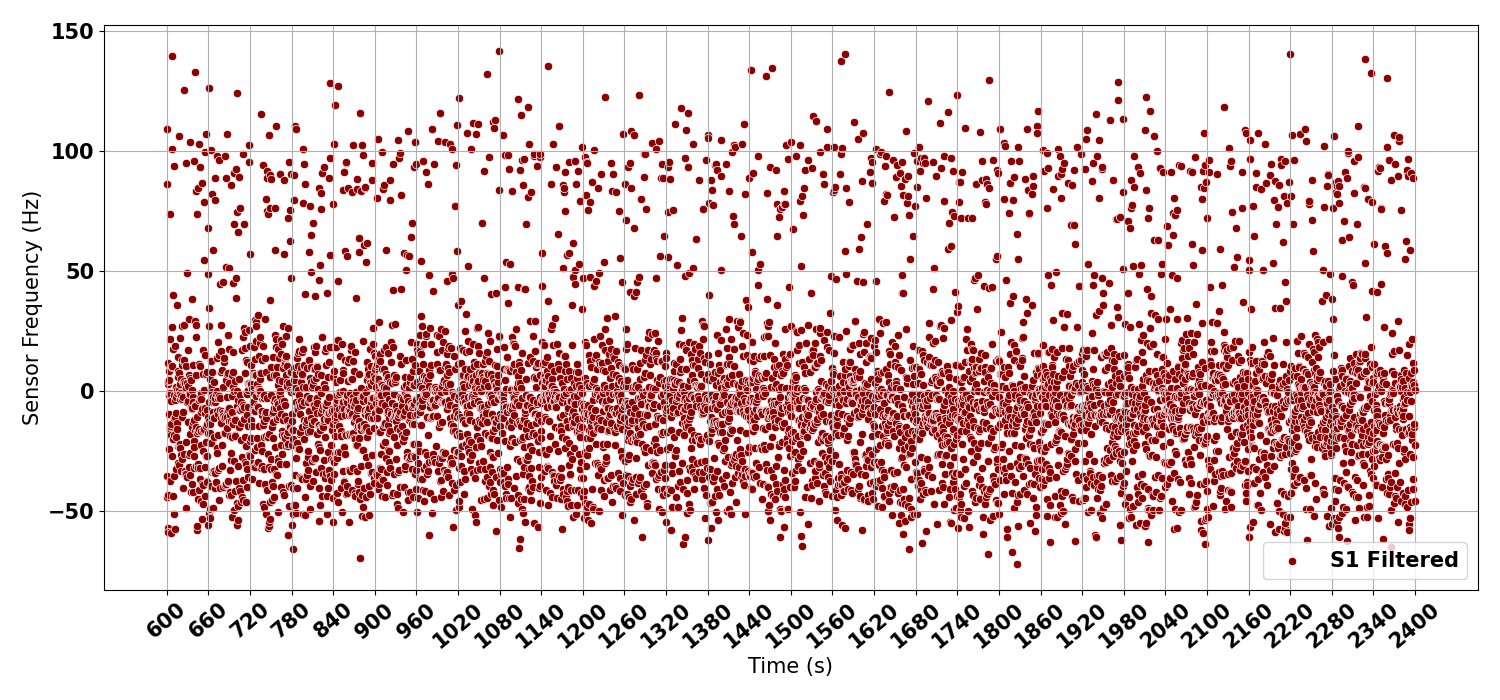
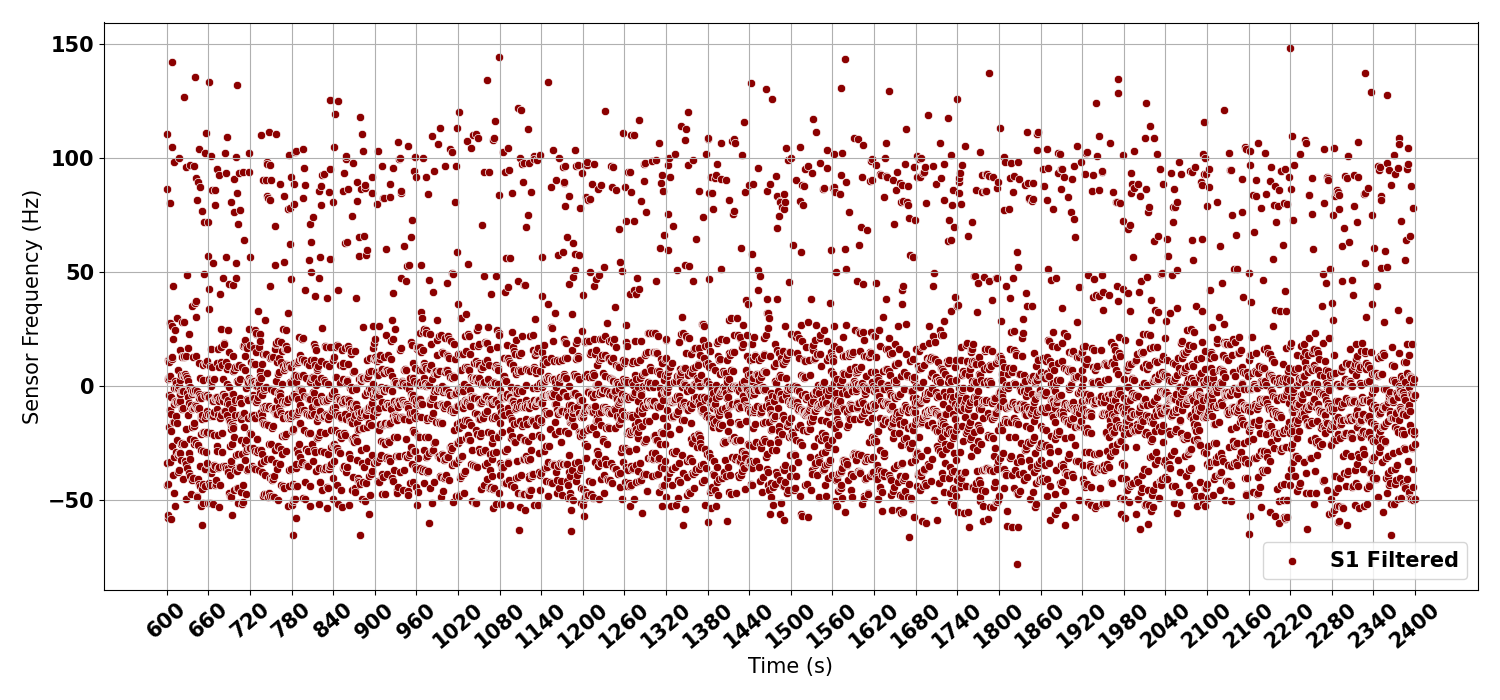
added noise analysis tests and moving average

diff --git a/FGD_03F_noise_analysis_functions.py b/FGD_03F_noise_analysis_functions.py
@@ -119,10 +119,10 @@ def Noise_02_HIGH_Dec_15_analysis(file_1,file_2,folder):
     i_start_1, i_start_2 = dataset_1.index[dataset_1[t_info_s]>=500].tolist()[0] , dataset_2.index[dataset_2[t_info_s]>=500].tolist()[0]
     i_end_1, i_end_2 = dataset_1.index[dataset_1[t_info_s]>=1100].tolist()[0] , dataset_2.index[dataset_2[t_info_s]>=1100].tolist()[0]
 
-    # Histogram normality test and 6*sigma noise range limits
+    # Histogram normality test and 4*sigma noise range limits
     x_1_l, x_2_l = dataset_1.loc[i_start_1:i_end_1,F_s_info] , dataset_2.loc[i_start_2:i_end_2,F_s_info]
-    data_points = len(x_1_l.index)
-    print("data points: %d"%(data_points))
+    data_points_1, data_points_2 = len(x_1_l.index), len(x_2_l.index)
+    print("data points (S1 | S2): %d | %d"%(data_points_1,data_points_2))
     mu_1,std_1 = hist_dist_plot(x_1_l,F_s_info,file_name_1[0:-7]+'_histogram_S1','Sensor 1', colors=['indianred','royalblue'],savefolder=savefolder, bins=25,dist='normal')[3:5]
     mu_2,std_2 = hist_dist_plot(x_2_l,F_s_info,file_name_1[0:-7]+'_histogram_S2','Sensor 2', colors=['royalblue','indianred'],savefolder=savefolder, bins = 25,dist='normal')[3:5]
     print("Noise peak to peak range limits (+- 2*sigma = 95.45%%) S1 (mu | 4s ): %f | %f "%(mu_1,4*std_1))
@@ -163,7 +163,7 @@ def Noise_02_HIGH_Dec_15_analysis(file_1,file_2,folder):
 
     # moving average filter as done by CERN, apply analysis to new data set
     x_1_new, x_2_new = dataset_1.loc[i_start_1:i_end_1,t_info_s], dataset_2.loc[i_start_2:i_end_2,t_info_s]
-    window = 40 # 40 for about 10s moving average window
+    window = 80 # 40 for about 10s moving average window
     t_window = 2*4096/31.25 # ms
     print('measurement window is (2*4096 pulses / 31.25 kHz clock) (ms): %f'%(t_window))
     print('moving average window (ms): %f'%(t_window*window))
@@ -180,7 +180,6 @@ def Noise_02_HIGH_Dec_15_analysis(file_1,file_2,folder):
     mu_2,std_2 = hist_dist_plot(y_2_noise,F_s_info,file_name_1[0:-7]+'_histogram_S2_noise','Sensor 2', colors=['royalblue','indianred'],savefolder=savefolder, bins = 25,dist='normal')[3:5]
     print("Noise peak to peak range limits (+- 2*sigma = 95.45%%) S1 (mu | 4s ): %f | %f "%(mu_1,4*std_1))
     print("Noise peak to peak range limits (+- 2*sigma = 95.45%%) S2 (mu | 4s ): %f | %f "%(mu_2,4*std_2))
-
 
 # ------------------------------------------------------------------------------------------------------------------------------------------------------------------------------------
 # ------------------------------------------------------------------------------------------------------------------------------------------------------------------------------------
@@ -512,7 +511,7 @@ def LOW_Jan_15_analysis(file_1,file_2,folder):
 
     # moving average filter as done by CERN, apply analysis to new data set
     x_1_new, x_2_new = dataset_1.loc[i_start_1:i_end_1,t_info_s], dataset_2.loc[i_start_2:i_end_2,t_info_s]
-    window = 40 # 40 for about 10s moving average window
+    window = 80 # 40 for about 10s moving average window
     t_window = 2*4096/31.25 # ms
     print('measurement window is (2*4096 pulses / 31.25 kHz clock) (ms): %f'%(t_window))
     print('moving average window (ms): %f'%(t_window*window))
@@ -602,7 +601,6 @@ def HIGH_Feb_18_analysis(file_1,file_2,folder):
 # ------------------------------------------------------------------------------------------------------------------------------------------------------------------------------------
 # ------------------------------------------------------------------------------------------------------------------------------------------------------------------------------------
 
-
 def HIGH_w32768_Feb_22_analysis(file_1,file_2,folder):
     print("******************************************** ANALYSIS HIGH_w32768_Feb_22 ********************************************")
     print('interesting: higher window pulses (32768)')
@@ -632,7 +630,7 @@ def HIGH_w32768_Feb_22_analysis(file_1,file_2,folder):
     y_1_s, y_2_s = [dataset_1[F_s_info],dataset_2[F_s_info]]
     y = [y_1_s, y_2_s]
     names = ['F sensor 1','F sensor 2']
-    fig,ax = plot_2subs_datasets(x_1,x_2,y_1_s,y_2_s,file_name_1[0:-7]+'_Fs',names,steps,savefolder=savefolder,colors=['red','blue'],markers=['.','.'])
+    fig,ax = plot_2subs_datasets(x_1,x_2,y_1_s,y_2_s,file_name_1[0:-7]+'_Fs',names,steps,savefolder=savefolder,colors=['red','blue'],markers=['.','.'],ylim_2=[131500,132200])
 
 # ------------------------------------------------------------------------------------------------------------------------------------------------------------------------------------
 # ------------------------------------------------------------------------------------------------------------------------------------------------------------------------------------
@@ -682,23 +680,84 @@ def HIGH_w32768_Feb_23_analysis(file_1,file_2,folder):
     t_info_s = 'Time (s)'
     dataset_1.rename(columns={t_info : t_info_s}, inplace=True)
     dataset_2.rename(columns={t_info : t_info_s}, inplace=True)
-    
-    # plot temperature to see of compensation might be needed
-    # plot reference frequency and sensor frequency to see variation over time
     steps = 30
-    x_1,x_2,y_1_T,y_2_T = dataset_1[t_info_s],dataset_2[t_info_s],dataset_1[T_info],dataset_2[T_info]
-    x = [x_1,x_2]
-    y = [y_1_T,y_2_T]
-    xmin, xmax = limits(x)
-    ymin, ymax = limits(y)
-    names = ['T sensor 1','T sensor 2']
-    fig,ax = plot_xy(x,y,file_name_1[0:-7]+'_Temperature',names,steps,savefolder=savefolder,xlim=[0,xmax],ylim=[77,87],colors=['darkred','darkblue'])
-    y_1_r,y_2_r = dataset_1[F_r_info],dataset_2[F_r_info]
-    y = [y_1_r,y_2_r]
-    ymin, ymax = limits(y) # limits are off due to error
-    names = ['F reference 1','F reference 2']
-    fig,ax = plot_2subs_datasets(x_1,x_2,y_1_r,y_2_r,file_name_1[0:-7]+'_Fr',names,steps,savefolder=savefolder,colors=['darkred','darkblue'],markers=['.','.'])
-    y_1_s, y_2_s = [dataset_1[F_s_info],dataset_2[F_s_info]]
-    y = [y_1_s, y_2_s]
-    names = ['F sensor 1','F sensor 2']
-    fig,ax = plot_2subs_datasets(x_1,x_2,y_1_s,y_2_s,file_name_1[0:-7]+'_Fs',names,steps,savefolder=savefolder,colors=['red','blue'],markers=['.','.'])
+
+    # # plot temperature to see of compensation might be needed
+    # # plot reference frequency and sensor frequency to see variation over time
+    # x_1,x_2,y_1_T,y_2_T = dataset_1[t_info_s],dataset_2[t_info_s],dataset_1[T_info],dataset_2[T_info]
+    # x = [x_1,x_2]
+    # y = [y_1_T,y_2_T]
+    # xmin, xmax = limits(x)
+    # ymin, ymax = limits(y)
+    # names = ['T sensor 1','T sensor 2']
+    # fig,ax = plot_xy(x,y,file_name_1[0:-7]+'_Temperature',names,steps,savefolder=savefolder,xlim=[0,xmax],ylim=[77,87],colors=['darkred','darkblue'])
+    # y_1_r,y_2_r = dataset_1[F_r_info],dataset_2[F_r_info]
+    # y = [y_1_r,y_2_r]
+    # ymin, ymax = limits(y) # limits are off due to error
+    # names = ['F reference 1','F reference 2']
+    # fig,ax = plot_2subs_datasets(x_1,x_2,y_1_r,y_2_r,file_name_1[0:-7]+'_Fr',names,steps,savefolder=savefolder,colors=['darkred','darkblue'],markers=['.','.'])
+    # y_1_s, y_2_s = [dataset_1[F_s_info],dataset_2[F_s_info]]
+    # y = [y_1_s, y_2_s]
+    # names = ['F sensor 1','F sensor 2']
+    # fig,ax = plot_2subs_datasets(x_1,x_2,y_1_s,y_2_s,file_name_1[0:-7]+'_Fs',names,steps,savefolder=savefolder,colors=['red','blue'],markers=['.','.'],ylim_2=[130800,131100])
+
+    # Histogram and noise range limits (620 - 1220)
+    i_start_1, i_start_2 = dataset_1.index[dataset_1[t_info_s]>=620].tolist()[0] , dataset_2.index[dataset_2[t_info_s]>=620].tolist()[0]
+    i_end_1, i_end_2 = dataset_1.index[dataset_1[t_info_s]>=1220].tolist()[0] , dataset_2.index[dataset_2[t_info_s]>=1220].tolist()[0]
+    print("PART OF RANGE (600-2400)")
+    x_1_l, x_2_l = x_1_l, x_2_l = dataset_1.loc[i_start_1:i_end_1,F_s_info] , dataset_2.loc[i_start_2:i_end_2,F_s_info]
+    print("number of data points (S1 | S2): %d | %d"%(len(x_1_l),len(x_2_l)))
+    mu_1,std_1 = hist_dist_plot(x_1_l,F_s_info,file_name_1[0:-7]+'_histogram_S1','Sensor 1', colors=['indianred','royalblue'],savefolder=savefolder, bins=18,dist='normal')[3:5]
+    mu_2,std_2 = hist_dist_plot(x_2_l,F_s_info,file_name_1[0:-7]+'_histogram_S2','Sensor 2', colors=['royalblue','indianred'],savefolder=savefolder, bins = 18,dist='normal')[3:5]
+    print("Noise peak to peak range limits (+- 2*sigma = 95.45%%) S1 (mu | 4s ): %f | %f "%(mu_1,4*std_1))
+    print("Noise peak to peak range limits (+- 2*sigma = 95.45%%) S2 (mu | 4s ): %f | %f "%(mu_2,4*std_2))
+
+    # moving average filter as done by CERN, apply analysis to new data set (data BEFORE external arduino was unplugged)
+    print("moving average data")
+    x_1_new, x_2_new = dataset_1.loc[i_start_1:i_end_1,t_info_s], dataset_2.loc[i_start_2:i_end_2,t_info_s]
+    window = 10 # 40 for about 10s moving average window
+    t_window = 2*32768/31.25 # ms
+    print('measurement window is (2*32768 pulses / 31.25 kHz clock) (ms): %f'%(t_window))
+    print('moving average window (ms): %f'%(t_window*window))
+    y_1_new, y_1_filter, y_1_noise = data_moving_average(dataset_1.loc[:,F_s_info],i_start_1,i_end_1,window)
+    y_2_new, y_2_filter, y_2_noise = data_moving_average(dataset_2[F_s_info],i_start_2,i_end_2,window)
+    fig,ax = plot_xy([x_1_new,x_1_new],[y_1_new,y_1_filter],file_name_1[0:-7]+'_Filtering_S1',['S1', 'S1 Filtered'],steps,savefolder=savefolder,colors=['darkred','darkblue'])
+    fig,ax = plot_xy([x_1_new,],[y_1_noise],file_name_1[0:-7]+'_Filtered_S1',['S1 Filtered'],steps,savefolder=savefolder,colors=['darkred',])
+    fig,ax = plot_xy([x_2_new,x_2_new],[y_2_new,y_2_filter],file_name_1[0:-7]+'_Filtering_S2',['S2', 'S2 Filtered'],steps,savefolder=savefolder,colors=['darkblue','darkred'])
+    fig,ax = plot_xy([x_2_new,],[y_2_noise],file_name_1[0:-7]+'_Filtered_S2',['S2 Filtered'],steps,savefolder=savefolder,colors=['darkblue'])
+    data_points_1, data_points_2 = len(y_1_noise.index),len(y_2_noise.index)
+    print("data points (S1 | S2): %d | %d"%(data_points_1,data_points_2))
+    mu_1,std_1 = hist_dist_plot(y_1_noise,F_s_info,file_name_1[0:-7]+'_histogram_S1_noise','Sensor 1', colors=['indianred','royalblue'],savefolder=savefolder, bins=18,dist='normal')[3:5]
+    mu_2,std_2 = hist_dist_plot(y_2_noise,F_s_info,file_name_1[0:-7]+'_histogram_S2_noise','Sensor 2', colors=['royalblue','indianred'],savefolder=savefolder, bins = 18,dist='normal')[3:5]
+    print("Noise peak to peak range limits (+- 2*sigma = 95.45%%) S1 (mu | 4s ): %f | %f "%(mu_1,4*std_1))
+    print("Noise peak to peak range limits (+- 2*sigma = 95.45%%) S2 (mu | 4s ): %f | %f "%(mu_2,4*std_2))
+
+    # EXTERNAL ARDUINO POWER UNPLUGGED, DO TESTS AGAIN TO SEE DIFFERENCE
+    print("\n************** POWER UNPLUGGED DATA **************")
+    # Histogram and noise range limits (2400 - 3000)
+    i_start_1, i_start_2 = dataset_1.index[dataset_1[t_info_s]>=2400].tolist()[0] , dataset_2.index[dataset_2[t_info_s]>=2400].tolist()[0]
+    i_end_1, i_end_2 = dataset_1.index[dataset_1[t_info_s]>=3000].tolist()[0] , dataset_2.index[dataset_2[t_info_s]>=3000].tolist()[0]
+    print("PART OF RANGE (2400 - 3000)")
+    x_1_l, x_2_l = x_1_l, x_2_l = dataset_1.loc[i_start_1:i_end_1,F_s_info] , dataset_2.loc[i_start_2:i_end_2,F_s_info]
+    print("number of data points (S1 | S2): %d | %d"%(len(x_1_l),len(x_2_l)))
+    mu_1,std_1 = hist_dist_plot(x_1_l,F_s_info,file_name_1[0:-7]+'_histogram_S1_power','Sensor 1', colors=['indianred','royalblue'],savefolder=savefolder, bins=18,dist='normal')[3:5]
+    mu_2,std_2 = hist_dist_plot(x_2_l,F_s_info,file_name_1[0:-7]+'_histogram_S2_power','Sensor 2', colors=['royalblue','indianred'],savefolder=savefolder, bins = 18,dist='normal')[3:5]
+    print("Noise peak to peak range limits (+- 2*sigma = 95.45%%) S1 (mu | 4s ): %f | %f "%(mu_1,4*std_1))
+    print("Noise peak to peak range limits (+- 2*sigma = 95.45%%) S2 (mu | 4s ): %f | %f "%(mu_2,4*std_2))   
+
+    # moving average filter as done by CERN, apply analysis to new data set (data AFTER external arduino was unplugged)
+    print("moving average data")
+    x_1_new, x_2_new = dataset_1.loc[i_start_1:i_end_1,t_info_s], dataset_2.loc[i_start_2:i_end_2,t_info_s]
+    window = 10 # 40 for about 10s moving average window
+    y_1_new, y_1_filter, y_1_noise = data_moving_average(dataset_1.loc[:,F_s_info],i_start_1,i_end_1,window)
+    y_2_new, y_2_filter, y_2_noise = data_moving_average(dataset_2[F_s_info],i_start_2,i_end_2,window)
+    fig,ax = plot_xy([x_1_new,x_1_new],[y_1_new,y_1_filter],file_name_1[0:-7]+'_Filtering_S1_power',['S1', 'S1 Filtered'],steps,savefolder=savefolder,colors=['darkred','darkblue'])
+    fig,ax = plot_xy([x_1_new,],[y_1_noise],file_name_1[0:-7]+'_Filtered_S1_power',['S1 Filtered'],steps,savefolder=savefolder,colors=['darkred',])
+    fig,ax = plot_xy([x_2_new,x_2_new],[y_2_new,y_2_filter],file_name_1[0:-7]+'_Filtering_S2_power',['S2', 'S2 Filtered'],steps,savefolder=savefolder,colors=['darkblue','darkred'])
+    fig,ax = plot_xy([x_2_new,],[y_2_noise],file_name_1[0:-7]+'_Filtered_S2_power',['S2 Filtered'],steps,savefolder=savefolder,colors=['darkblue'])
+    data_points_1, data_points_2 = len(y_1_noise.index),len(y_2_noise.index)
+    print("data points (S1 | S2): %d | %d"%(data_points_1,data_points_2))
+    mu_1,std_1 = hist_dist_plot(y_1_noise,F_s_info,file_name_1[0:-7]+'_histogram_S1_noise_power','Sensor 1', colors=['indianred','royalblue'],savefolder=savefolder, bins=18,dist='normal')[3:5]
+    mu_2,std_2 = hist_dist_plot(y_2_noise,F_s_info,file_name_1[0:-7]+'_histogram_S2_noise_power','Sensor 2', colors=['royalblue','indianred'],savefolder=savefolder, bins = 18,dist='normal')[3:5]
+    print("Noise peak to peak range limits (+- 2*sigma = 95.45%%) S1 (mu | 4s ): %f | %f "%(mu_1,4*std_1))
+    print("Noise peak to peak range limits (+- 2*sigma = 95.45%%) S2 (mu | 4s ): %f | %f "%(mu_2,4*std_2))

diff --git a/FGD_03F_functions.py b/FGD_03F_functions.py
@@ -342,6 +342,17 @@ def plot_2subs_datasets(x_1,x_2,y_1,y_2,filename,names,steps,xlim=[-1,-1],ylim_1
     return fig,axs     
 
 def sens_linreg(x: str,y: str,index_ranges: list,datasets: object):
+    """determine the sensitivity of the given pandas datasets within the ranges given by the indexes using the columns x and y via linear regression methods.
+
+    Args:
+        x (str): x axis data column name
+        y (str): y axis data column name
+        index_ranges (list): limits to determine over which regions in the dataset linear regression should be used
+        datasets (object): pandas dataframe
+
+    Returns:
+        _type_: the intercepts, coefficients, p-values and R-squared values of the linear regression lines
+    """    
     x_matrix = np.zeros((len(datasets),len(index_ranges)),dtype=object)
     y_matrix = np.zeros((len(datasets),len(index_ranges)),dtype=object)
     models = np.zeros((len(datasets),len(index_ranges)),dtype=object)
@@ -365,6 +376,21 @@ def sens_linreg(x: str,y: str,index_ranges: list,datasets: object):
     return intercepts,coeffs,pvalues,rsquared
 
 def hist_dist_plot(data,columnname,filename,name,colors=['indianred','royalblue'],savefolder=os.getcwd()+"\\Figures",bins = 20,dist = 'none'):
+    """plot a histogram and fit a distribution over it
+
+    Args:
+        data (pandas series): data to use
+        columnname (string): title of the data series used for the histogram
+        filename (string): filename to give names to the plot and save files
+        name (string): label to give the data in the histogram
+        colors (list, optional): Colours of the data in the plots. Defaults to ['indianred','royalblue'].
+        savefolder (string, optional): Folder where to save files. Defaults to os.getcwd()+"\Figures".
+        bins (int, optional): Number of bins to use in the histogram. Defaults to 20.
+        dist (str, optional): Type of distribution to fit over histogram, options are none, normal and KDE. Defaults to 'none'.
+
+    Returns:
+        _type_: _description_
+    """    
     fig, ax = plt.subplots(figsize=(15,7))
     plt.hist(data,bins=bins,density=True,color=colors[0],label=name, alpha  = 0.6)
     xmin, xmax = limits([data])
@@ -395,6 +421,17 @@ def hist_dist_plot(data,columnname,filename,name,colors=['indianred','royalblue'
     return [fig,ax,dist,param_1,param_2]
 
 def kde_limits(data,steps,kde,confidence = 0.9545):
+    """given data and a KDE fit, determine endpoints of the interval determined by confidence
+
+    Args:
+        data (pandas series): data to use
+        steps (int): number of data points to use to go over the KDE
+        kde (Scipy model): Kernel Density Estimate Scipy model
+        confidence (float, optional): Percentage of surface area under KDE to include. Defaults to 0.9545.
+
+    Returns:
+        list: endpoints of the calculated area
+    """    
     kde_min, kde_max = (1-confidence)/2, confidence+(1-confidence)/2
     ecdf = sm.distributions.ECDF(data)
     xmin, xmax = limits([data])
@@ -418,6 +455,17 @@ def kde_limits(data,steps,kde,confidence = 0.9545):
     return resolution
 
 def data_moving_average(data,start,end,window):
+    """filter data using a moving average
+
+    Args:
+        data (pandas series): data to filter
+        start (index): where to start in the dataset
+        end (index): where to stop in the dataset
+        window (int): size of data point window to use for moving average
+
+    Returns:
+        pandas series: data series with original data, filtered data and leftover noise data
+    """    
     y = data.loc[start:end]
     y_filter = moving_average(data.loc[start-window:end+window],window)[window:-window]
     y_noise = y.copy(deep=True)    

diff --git a/FGD_03F_analysis.py b/FGD_03F_analysis.py
@@ -4,13 +4,7 @@ this allows for selection of the most important test results
 """
 
 # TO ADD
-# - compare dose rates with HollandPTC data!
-# - add different temperature compensations
-# - make sure reading either stops at a recharge or takes reacharging into account in another way
-# - the test facility will provide data concerning radiation, so here code can be added to integrate the received dose / flux into the dataframes
-# - compare frequency at the end of one file to the start of the next to see degradation over time (choose one with a lot of time in between)
-# - eliminate whips in data.... (set threshold for change per sensitivity?), it influences range determination for linear range...
-#   (this is only slight error, ignore?)
+# - compare dose rates with HollandPTC data! Verify HollandPTC dose rates....
 
 from FGD_03F_functions import *
 from FGD_03F_file_analysis_functions import *
@@ -48,12 +42,12 @@ elif (flag_Noise):
     flag_Noise_04_HIGH_Dec_16 = 0
     flag_HIGH_Jan_14 = 0
     flag_HIGH_Jan_15 = 0
-    flag_LOW_Jan_15 = 0
+    flag_LOW_Jan_15 = 1
     flag_HIGH_Jan_26 = 0
     flag_HIGH_Feb_18 = 0
     flag_HIGH_w32768_Feb_22 = 0
     flag_HIGH_Feb_23 = 0
-    flag_HIGH_w32768_Feb_23 = 1
+    flag_HIGH_w32768_Feb_23 = 0
 elif (flag_HollandPTC_0224):
     # which files to analyse
     start_of_filename = "FGDOS"

diff --git a/SAM_plotting.py b/SAM_plotting.py
@@ -4,7 +4,7 @@ import matplotlib.pyplot as plt
 # folder to use and file selection via start of filename
 folder = "CSV_files\\SAMV71\\Noise\\corrected"
 folder_image = "Figures\\Noise\\_SAM"
-start_of_filename = "SAMV71_HIGH_w32768_Feb_23"
+start_of_filename = "SAMV71_HIGH_Jan_26_08-33"
 # figure settings
 steps = 10
 
